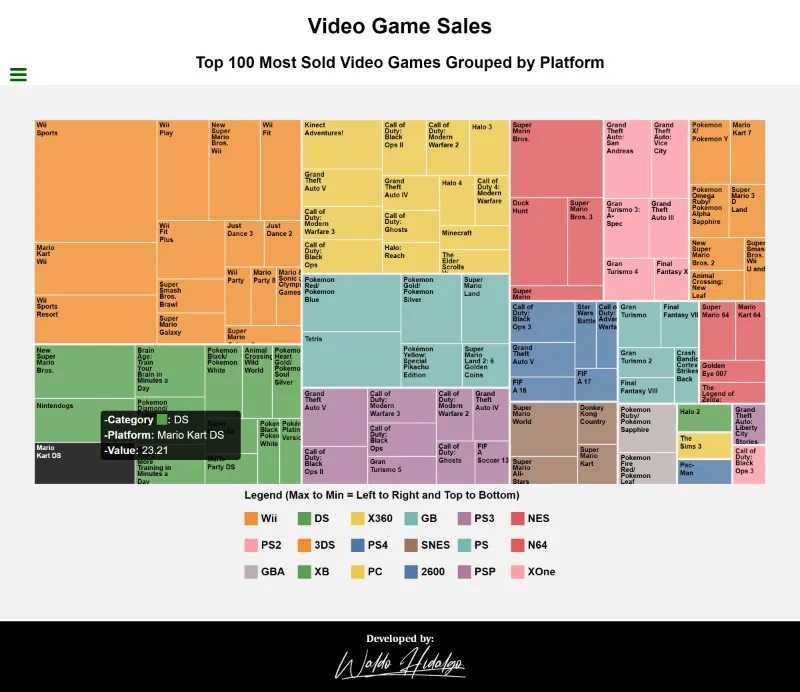
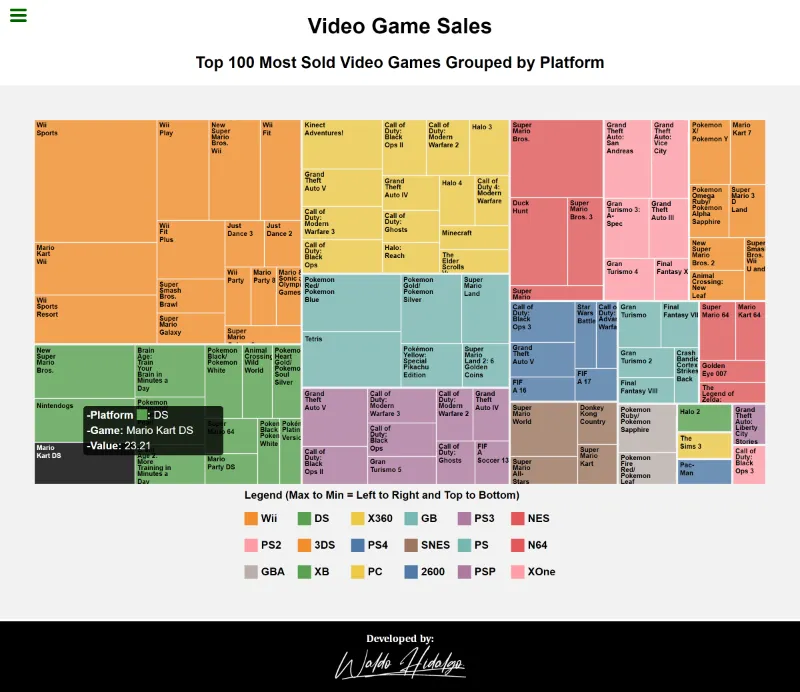
update readme

Changed region(s): [[0.0938, 0.5766, 0.3125, 0.6676], [0.0, 0.091, 0.0312, 0.1214], [0.0, 0.0, 0.0312, 0.0303]]

diff --git a/assets/js/index.js b/assets/js/index.js
@@ -143,8 +143,8 @@ document.addEventListener("DOMContentLoaded", async () => {
 
       tooltip.style("display", "flex").html(
         `
-        <div><strong>-Category <span class="square"></span>:</strong> ${d.data.category} </div>
-        <div><strong>-Platform:</strong> ${d.data.name}</div>
+        <div><strong>-Platform <span class="square"></span>:</strong> ${d.data.category} </div>
+        <div><strong>-Game:</strong> ${d.data.name}</div>
         <div><strong>-Value:</strong> ${d.data.value}</div>
         `
       );
